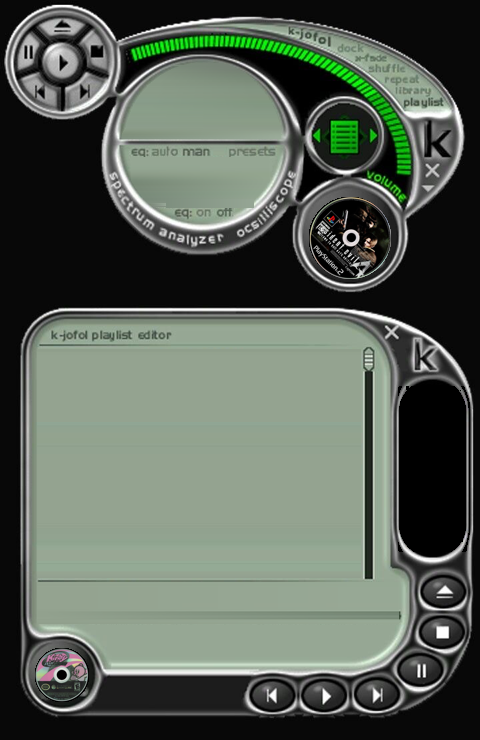
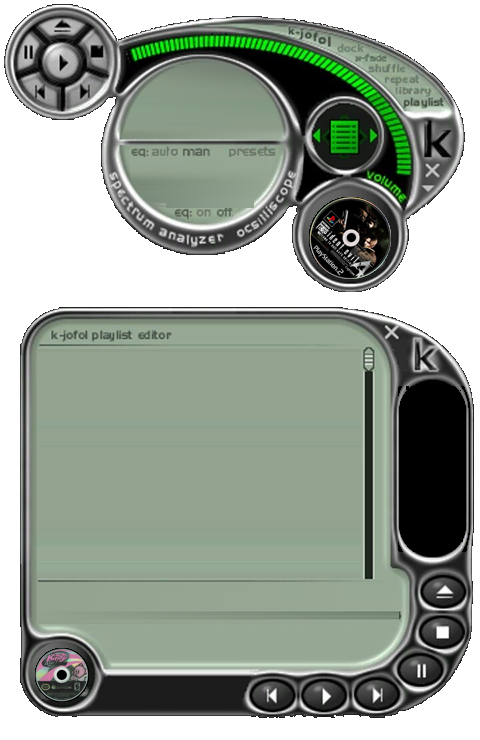
Player: окно принимает форму плеера — без рамки, прозрачный фон, перетаскивание за корпус
При переключении на другие скины возвращается обычное окно.

Changed region(s): [[0.0, 0.0, 1.0, 1.0]]

diff --git a/task_quest_player.py b/task_quest_player.py
@@ -61,6 +61,7 @@ HINTS = {
     "stop": "■ стоп", "b_stop": "■ стоп", "eject": "⏏ экспорт в CSV", "b_eject": "⏏ экспорт в CSV",
     "prev": "⏮ предыдущий квест", "b_prev": "⏮ предыдущий квест", "next": "⏭ следующий квест",
     "b_next": "⏭ следующий квест", "green": "эквалайзер вкл/выкл", "dock": "поверх окон", "disc": "сменить диск",
+    "close": "✕ закрыть", "close2": "✕ закрыть",
 }
 ROUND_BTNS = {
     "play": ((62, 62), 17), "pause": ((28, 48), 13), "eject": ((62, 22), 13), "stop": ((96, 48), 13),
@@ -68,6 +69,7 @@ ROUND_BTNS = {
     "b_prev": ((283, 693), 18), "b_play": ((325, 693), 18), "b_next": ((375, 693), 18),
     "b_eject": ((443, 592), 17), "b_stop": ((443, 632), 17), "b_pause": ((422, 670), 17),
     "green": ((343, 135), 22), "dock": ((350, 47), 12),
+    "close": ((432, 170), 9), "close2": ((392, 332), 9),
 }
 
 
@@ -87,8 +89,15 @@ class AppPlayer(tq.App2):
         self.font = lambda size, bold=True: (fam, size, "bold" if bold else "normal")
         self.lcd_font = lambda size: (rounded, size)
 
-        self.cv = tk.Canvas(root, width=W, height=H, bg="#000000", highlightthickness=0)
+        # окно принимает форму плеера: без рамки и заголовка, всё вокруг плеера прозрачное
+        root.withdraw()
+        root.overrideredirect(True)
+        root.wm_attributes("-transparent", True)
+        root.configure(bg="systemTransparent")
+        root.deiconify()
+        self.cv = tk.Canvas(root, width=W, height=H, bg="systemTransparent", highlightthickness=0)
         self.cv.pack()
+        self.drag = None
         self.cv.focus_set()  # чтобы пробел сразу работал
         self.on_switch = None
         self.entry = None  # задачи добавляются через «add track»
@@ -106,7 +115,7 @@ class AppPlayer(tq.App2):
         self.scratch_until = -1
         self.eq = [0.2] * 14
 
-        self.bg = tk.PhotoImage(file=os.path.join(ASSETS, "player_clean.png"))
+        self.bg = tk.PhotoImage(file=os.path.join(ASSETS, "player_shape.png"))
         self.hint = None
         bold = next((f for f in ("Verdana", "Tahoma", "Arial") if f in families), fam)
         self.bold = lambda size: (bold, size, "bold")
@@ -139,6 +148,8 @@ class AppPlayer(tq.App2):
         self.layer = "dyn"
 
         self.cv.bind("<Button-1>", self.on_click)
+        self.cv.bind("<B1-Motion>", self.on_drag)
+        self.cv.bind("<ButtonRelease-1>", lambda e: setattr(self, "drag", None))
         self.cv.bind("<Motion>", self.on_motion)
         self.cv.bind("<Leave>", lambda e: setattr(self, "hint", None))
         self.cv.bind("<MouseWheel>", self.on_wheel)
@@ -157,6 +168,26 @@ class AppPlayer(tq.App2):
         if getattr(self, "_after", None):
             self.root.after_cancel(self._after)
         self.cv.destroy()
+        # возвращаем обычное окно для других скинов
+        root = self.root
+        root.withdraw()
+        root.wm_attributes("-transparent", False)
+        root.overrideredirect(False)
+        root.deiconify()
+
+    def on_click(self, e):
+        """Клик по кнопке — действие, по корпусу плеера — начать перетаскивание окна."""
+        self.root.focus_force()
+        self.cv.focus_set()
+        for x1, y1, x2, y2, cb in reversed(self.hits):
+            if x1 <= e.x <= x2 and y1 <= e.y <= y2:
+                cb()
+                return
+        self.drag = (e.x_root - self.root.winfo_x(), e.y_root - self.root.winfo_y())
+
+    def on_drag(self, e):
+        if self.drag:
+            self.root.geometry(f"+{e.x_root - self.drag[0]}+{e.y_root - self.drag[1]}")
 
     def on_motion(self, e):
         """Подсказка на LCD: что делает кнопка под мышкой."""
@@ -228,7 +259,7 @@ class AppPlayer(tq.App2):
             "dock": self.toggle_top,
             "add": self.add_task, "del": self.delete_selected, "select": lambda: self.select_step(1),
             "csv": self.export_csv, "clear": self.clear_tasks, "fx": self.toggle_fx, "top": self.toggle_top,
-            "skin": self.switch_skin,
+            "skin": self.switch_skin, "close": self.on_close, "close2": self.on_close,
         }
         return lambda: (self.press(name), acts[name]())
 

diff --git a/README.md b/README.md
@@ -65,7 +65,7 @@
 
 ### ◉ Player
 
-Плеер K-Jofol один в один, а в его круглых приводах вращаются диски Kirby Air Ride, Bratz Rock Angelz и Resident Evil 4.
+Плеер K-Jofol один в один, а в его круглых приводах вращаются диски Kirby Air Ride, Bratz Rock Angelz и Resident Evil 4. Окно принимает форму плеера: без рамки и с прозрачным фоном, перетаскивается за корпус, закрывается крестиком ✕ на плеере.
 
 - **LCD**: время квеста (во время работы — время сессии), статус play/pause, название квеста, уровень и время за день
 - **Эквалайзер** танцует, пока идёт таймер («♫ анимация» или зелёная кнопка в центре выключают)
